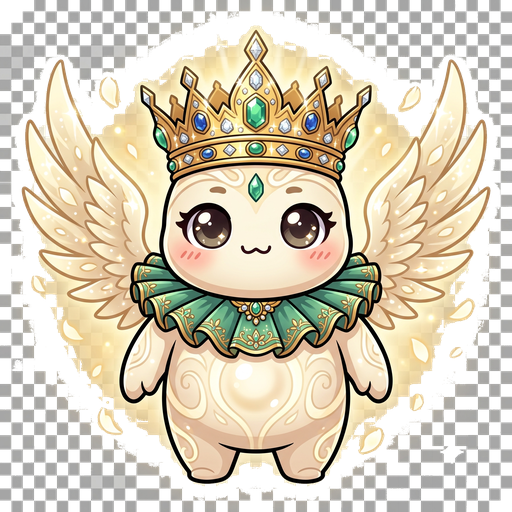
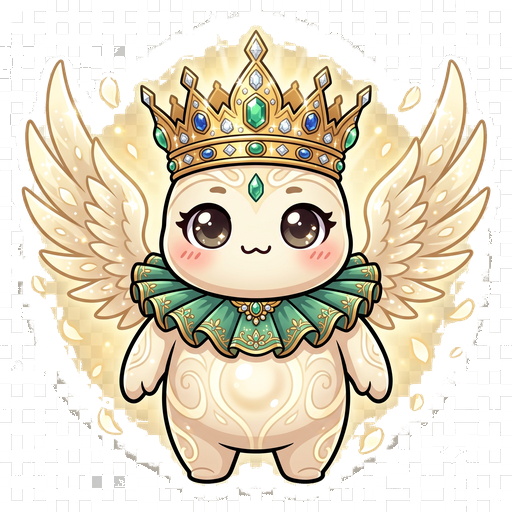
Fix background-removal artifacts, correct teaser copy, add FB launch kit
Several sprites still carried a residual checkerboard from the original
AI background-removal pass (visible once actually rendered on a dark
page, not just at thumbnail size). Re-ran an improved edge-BFS cleanup
per-image (checker tone varies by file), swapped in child-stage art for
the two forms that stayed stubborn, and gave every creature portrait a
circular crop-frame as a second line of defense against edge artifacts.

Also corrected the "real desktop footage" claim on the teaser video
section — the clip is a cinematic lore teaser, not gameplay capture.

Added marketing/facebook-launch-kit.md + composited profile/cover art
for standing up the Facebook Page.

Changed region(s): [[0.0, 0.0, 1.0, 1.0]]

diff --git a/index.html b/index.html
@@ -69,8 +69,15 @@
       radial-gradient(circle at 50% 20%, rgba(179,18,28,0.25), transparent 60%);
     pointer-events:none;
   }
+  .portrait{
+    border-radius:50%; overflow:hidden;
+    display:flex; align-items:center; justify-content:center;
+    background:radial-gradient(circle, rgba(255,240,210,0.06), transparent 70%);
+    margin:0 auto;
+  }
+  .portrait img{width:170%; height:170%; max-width:none; max-height:none; object-fit:cover; object-position:center; display:block;}
   .hero-art{
-    width:220px; margin:0 auto 8px;
+    width:220px; height:220px; margin:0 auto 8px;
     filter:drop-shadow(0 0 40px rgba(255,220,150,0.25));
   }
   .hero h1{
@@ -134,7 +141,7 @@
     background:var(--bg-soft); border:1px solid var(--line); border-radius:14px;
     padding:26px 20px; text-align:center;
   }
-  .fate-card img{width:150px; margin:0 auto 14px;}
+  .fate-card .portrait{width:150px; height:150px; margin-bottom:14px;}
   .fate-card h3{margin:0 0 8px; font-family:Georgia,serif; letter-spacing:0.04em;}
   .fate-card p{font-size:0.9rem; color:var(--cream-dim); margin:0;}
   .fate-card.bright h3{color:#ffe9a8;}
@@ -152,7 +159,7 @@
     padding:18px; text-align:center; transition:transform .2s, border-color .2s;
   }
   .g-card:hover{transform:translateY(-4px); border-color:rgba(255,59,70,0.4);}
-  .g-card img{width:100px; margin:0 auto 10px;}
+  .g-card .portrait{width:100px; height:100px; margin-bottom:10px;}
   .g-card h4{margin:0 0 6px; font-size:0.95rem; letter-spacing:0.03em; color:var(--blood-glow);}
   .g-card p{margin:0; font-size:0.8rem; color:var(--cream-dim);}
 
@@ -212,7 +219,7 @@
 
 <section class="hero">
   <div class="wrap">
-    <img class="hero-art" src="assets/img/bright_adult.png" alt="Pomlet, the bright form of a crownling">
+    <div class="hero-art portrait"><img src="assets/img/bright_adult.png" alt="Pomlet, the bright form of a crownling"></div>
     <h1>CROWN<span class="crown">LING</span>S</h1>
     <p class="tagline">Raise it kind, and it stays kind. Neglect it — or feed it the wrong crown — and it becomes something else entirely.</p>
     <p class="thai">เกมเลี้ยงมอนสเตอร์บนเดสก์ท็อป — เลี้ยงดีได้ร่างสดใส เลี้ยงแบบไหนก็ได้อีกร่างที่ต่างออกไป กำลังพัฒนาลง Steam</p>
@@ -233,13 +240,13 @@
     </div>
     <div class="fates">
       <div class="fate-card bright">
-        <img src="assets/img/bright_adult.png" alt="Bright form">
+        <div class="portrait"><img src="assets/img/bright_adult.png" alt="Bright form"></div>
         <h3>Raised Well</h3>
         <p>Bright, warm, and loyal — the gentle path.</p>
       </div>
       <div class="vs">VS</div>
       <div class="fate-card dark">
-        <img src="assets/img/sleep_adult.png" alt="Corrupted form, the Sleepless">
+        <div class="portrait"><img src="assets/img/sleep_child.png" alt="Corrupted form, the Sleepless"></div>
         <h3>Left Unchecked</h3>
         <p>Neglect or a stolen crown awakens the corrupted side — "the Sleepless."</p>
       </div>
@@ -255,11 +262,11 @@
       <p>Every element twists differently once a crown takes hold.</p>
     </div>
     <div class="gallery">
-      <div class="g-card"><img src="assets/img/ember_adult.png" loading="lazy" alt="Ember corruption"><h4>Ember</h4><p>Fire &amp; ruin</p></div>
-      <div class="g-card"><img src="assets/img/still_adult.png" loading="lazy" alt="Still corruption"><h4>Still</h4><p>Frost &amp; silence</p></div>
-      <div class="g-card"><img src="assets/img/riven_adult.png" loading="lazy" alt="Riven Sky corruption"><h4>Riven Sky</h4><p>Storm &amp; lightning</p></div>
-      <div class="g-card"><img src="assets/img/gorge_adult.png" loading="lazy" alt="Gorge corruption"><h4>Gorge</h4><p>Chaos &amp; hunger</p></div>
-      <div class="g-card"><img src="assets/img/sleep_adult.png" loading="lazy" alt="The Sleepless corruption"><h4>The Sleepless</h4><p>Blood &amp; the void</p></div>
+      <div class="g-card"><div class="portrait"><img src="assets/img/ember_adult.png" loading="lazy" alt="Ember corruption"></div><h4>Ember</h4><p>Fire &amp; ruin</p></div>
+      <div class="g-card"><div class="portrait"><img src="assets/img/still_adult.png" loading="lazy" alt="Still corruption"></div><h4>Still</h4><p>Frost &amp; silence</p></div>
+      <div class="g-card"><div class="portrait"><img src="assets/img/riven_child.png" loading="lazy" alt="Riven Sky corruption"></div><h4>Riven Sky</h4><p>Storm &amp; lightning</p></div>
+      <div class="g-card"><div class="portrait"><img src="assets/img/gorge_adult.png" loading="lazy" alt="Gorge corruption"></div><h4>Gorge</h4><p>Chaos &amp; hunger</p></div>
+      <div class="g-card"><div class="portrait"><img src="assets/img/sleep_child.png" loading="lazy" alt="The Sleepless corruption"></div><h4>The Sleepless</h4><p>Blood &amp; the void</p></div>
     </div>
   </div>
 </section>
@@ -267,14 +274,14 @@
 <section id="teaser">
   <div class="wrap teaser-wrap">
     <div class="section-head">
-      <span class="eyebrow">Real Footage</span>
-      <h2>It lives on your actual desktop</h2>
-      <p>Not a mockup — this is the creature running on the taskbar right now.</p>
+      <span class="eyebrow">First Look</span>
+      <h2>Something ancient is waking up</h2>
+      <p>A cinematic teaser from the world CROWNLINGS is set in.</p>
     </div>
     <video class="teaser-video" autoplay muted loop playsinline>
       <source src="assets/video/teaser.mp4" type="video/mp4">
     </video>
-    <p class="caption">Early build footage — art and effects are still evolving.</p>
+    <p class="caption">Concept teaser — in-game desktop footage is coming in a future update.</p>
   </div>
 </section>
 

diff --git a/marketing/facebook-launch-kit.md b/marketing/facebook-launch-kit.md
@@ -1,0 +1,79 @@
+# CROWNLINGS — Facebook Page launch kit
+
+Everything needed to stand up the Page. sIRImeta creates the Page itself (a Facebook
+Page is tied to a real personal login, so that click stays with sIRImeta); everything
+below is ready to paste in once it exists.
+
+## 1. Create the Page
+
+facebook.com → Menu → **Pages** → **Create new Page** →
+- Page name: **CROWNLINGS**
+- Category: **Video Game** (or "App Page" if Video Game isn't offered — pick whichever
+  Facebook's picker actually shows first)
+- Username to try, in order (first one available wins): `@PlayCrownlings`,
+  `@CrownlingsGame`, `@Crownlings.the.game`
+
+## 2. Profile picture & cover photo
+
+Both are pre-composited and sitting in `marketing/assets/`:
+- `fb_profile_1024.png` — 1024×1024. Facebook always displays this cropped to a
+  circle, so the square corners never show.
+- `fb_cover_1640x924.png` — 1640×924 (2x the recommended 820×462, for retina).
+
+Just upload both as-is.
+
+## 3. About / bio text
+
+**Short bio** (Page's one-line summary):
+> A desktop creature-raising game. Raise it kind, or watch it become something else. Coming to Steam.
+
+**Thai line** (add to the same field or the "Our Story" long-form box):
+> เกมเลี้ยงมอนสเตอร์บนเดสก์ท็อป เลี้ยงดีได้ร่างสดใส เลี้ยงพลาดได้อีกร่าง กำลังจะไปลง Steam
+
+**Long About / Our Story:**
+> CROWNLINGS is a desktop creature-raising game currently in development. Every
+> crownling carries a dormant crown — raise it well and it grows into a bright,
+> loyal companion; neglect it, or expose it to the wrong crown, and it awakens a
+> corrupted form instead. Raise, evolve, breed bloodlines, and battle in async PvP.
+> This page is where the game's progress gets shared first. Follow along, and
+> Wishlist on Steam once the store page goes live.
+
+## 4. First 3 posts (drafted, ready to paste)
+
+**Post 1 — Pomlet reveal** (use `assets/img/bright_adult.png` from the site's `assets/img/`)
+> ทำความรู้จัก "Pomlet" 👑 ตัวละครหลักของ CROWNLINGS เกมเลี้ยงมอนสเตอร์บนเดสก์ท็อปที่กำลังพัฒนาอยู่
+>
+> ทุกตัวมีมงกุฎที่หลับใหลอยู่ข้างใน — เลี้ยงดีแค่ไหน มงกุฎนั้นจะตอบสนองแบบนั้น
+>
+> กด Follow ไว้เลย แล้วจะทยอยโชว์พัฒนาการให้ดูเรื่อยๆ ครับ 🐾
+
+**Post 2 — "5 Crowned Corruptions" carousel** (attach the 5 gallery images from
+`assets/img/`: ember_adult, still_adult, riven_child, gorge_adult, sleep_child)
+> ถ้าเลี้ยงพลาด... นี่คือสิ่งที่รอคุณอยู่ 🔥❄⚡🟢🩸
+>
+> ธาตุเดียวกัน มงกุฎเดียวกัน แต่กลายพันธุ์ไปคนละทางเมื่อถูกครอบครองด้วยความมืด — Ember (ไฟ), Still (น้ำแข็ง), Riven Sky (สายฟ้า), Gorge (ความโกลาหล), The Sleepless (เลือด)
+>
+> ชอบร่างไหนที่สุด คอมเมนต์บอกกันหน่อย 👇
+
+**Post 3 — Dev-progress teaser** (video: the same `assets/video/teaser.mp4` used
+on the site, or a short capture of the Riven Sky / Gorge 3D models if a screen
+recording is made from Godot)
+> อัปเดตความคืบหน้า CROWNLINGS 🛠
+>
+> ตอนนี้กำลังต่อยอดโมเดล 3D และระบบอีกหลายส่วนอยู่ ยังอีกไกลกว่าจะเสร็จ แต่ตั้งใจทำเต็มที่ทุกวัน
+>
+> ใครอยากตามดูพัฒนาการแบบใกล้ชิด กด Follow เพจนี้ไว้ได้เลยครับ จะมาอัปเดตเรื่อยๆ
+
+## Notes / things to know before posting
+
+- The video used on the site (`assets/video/teaser.mp4`) is a **cinematic lore
+  teaser**, not gameplay/screen-capture footage — don't caption it as "gameplay."
+- The Riven Sky and Sleepless gallery art shown here are the **child-stage** sprites
+  (`riven_child.png`, `sleep_child.png`), not adult — the adult versions of those two
+  specific forms still have a background-removal artifact (leftover checkerboard from
+  the original AI generation) that resisted cleanup; the child-stage versions came out
+  clean. Purely a cosmetic asset-pipeline issue, not a gameplay one — worth a proper
+  re-export from source later if the adult art is needed for something bigger (e.g. a
+  future Steam capsule).
+- Once the Steam store page exists, add the real Wishlist link to both the Page's
+  "Shop" / call-to-action button and pin a post announcing it.
